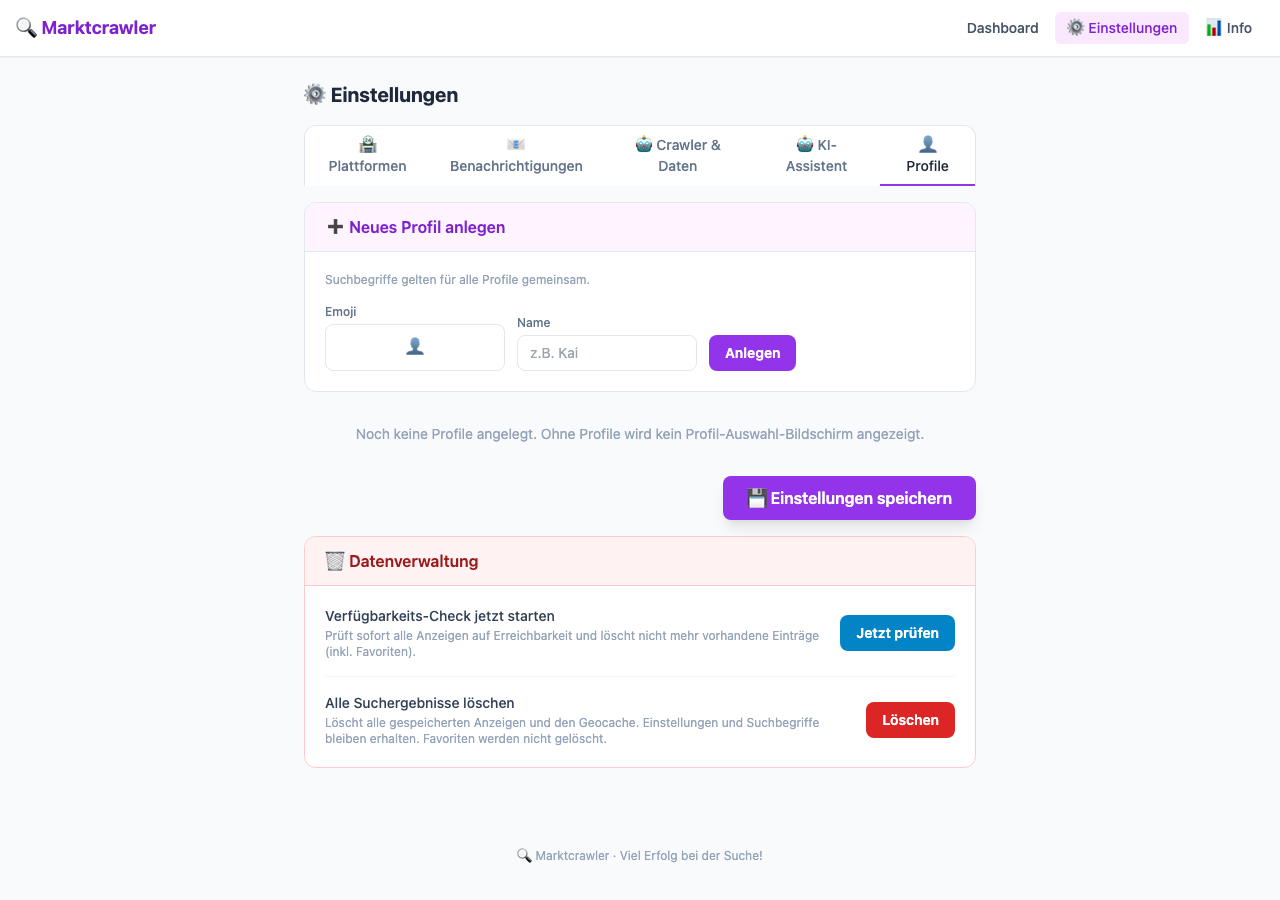
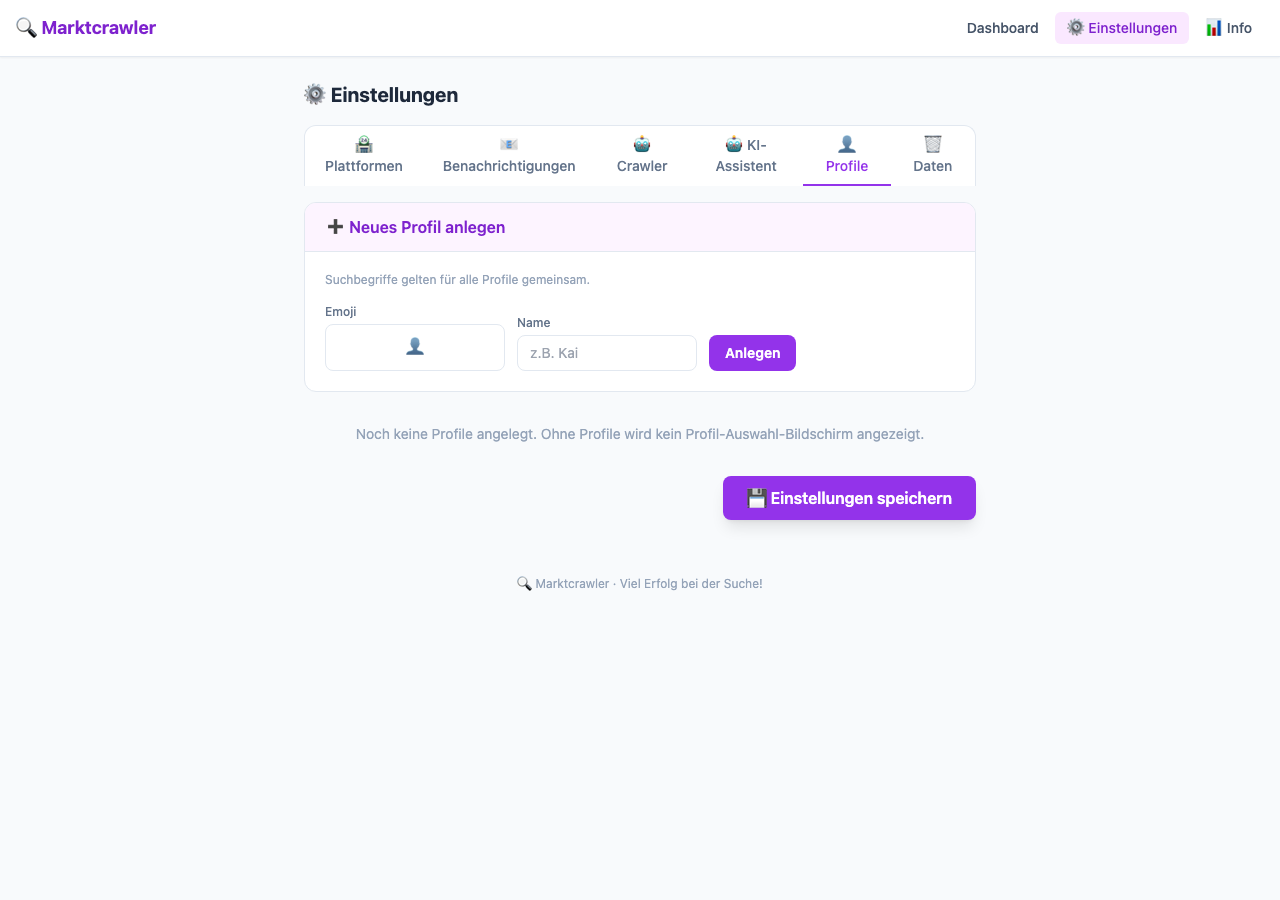
docs: README, features.md und Screenshots aktualisiert
- README: Test-Badge auf 640, Per-Profil-Benachrichtigungen beschrieben,
  Gmail-Setup ohne globalen Empfänger, Testbefehle aktualisiert
- features.md: Preisstatistik auf Info-Seite, Mehrbenutzer-Profile ohne
  globalen Fallback, Willhaben.at + markt.de in Settings-Tabelle, neue
  API-Endpunkte (/api/clear-geocache, /api/check-updates, /profiles/<id>/notify),
  Architektur: 618 Unit + 22 UI-Tests, willhaben.py + markt.py in Scrapers-Liste
- Screenshots: alle bestehenden Screenshots neu aufgenommen; neuer Screenshot
  settings-data.png für Daten-Tab mit Log-Terminal

diff --git a/docs/features.md b/docs/features.md
@@ -79,7 +79,7 @@ Gleiche `listing_id` wird nie doppelt gespeichert. Plattformübergreifend: gleic
 Luftlinie vom eigenen Heimstandort zu jeder Anzeige, berechnet via Nominatim + Haversine. Heimstandort in **Einstellungen → Crawler & Daten** als Stadtname eingeben.
 
 ### Preisstatistik
-Aufklappbare Tabelle im Dashboard zeigt Durchschnitt, Min, Max und Gratis-Zähler pro Suchbegriff (`GET /api/stats`).
+Tabelle auf der Info-Seite (`/info`) zeigt Durchschnitt, Min, Max und Gratis-Zähler pro Suchbegriff (`GET /api/stats`).
 
 ### Relative Zeitangaben
 Timestamps werden als „vor 2h" / „vor 30 Min." angezeigt (Tooltip mit absolutem Datum).
@@ -88,12 +88,12 @@ Timestamps werden als „vor 2h" / „vor 30 Min." angezeigt (Tooltip mit absolu
 Mehrere Personen können die App gemeinsam nutzen, ohne sich gegenseitig die „Neu"-Badges wegzunehmen. Beim Öffnen der App wird ein Profil gewählt (Netflix-Stil). Jedes Profil merkt sich den eigenen `last_seen_at`-Zeitstempel — Anzeigen, die nach dem letzten Besuch gefunden wurden, tragen das **✨ Neu**-Badge. Suchbegriffe und Einstellungen sind global geteilt. Profile werden in **Einstellungen → Profile** verwaltet (anlegen, umbenennen, Emoji setzen, löschen). Der aktive Nutzer ist in der Navbar sichtbar; Wechseln per Klick.
 
 Jedes Profil kann zusätzlich eine **eigene E-Mail-Adresse** und einen **Benachrichtigungsmodus** haben (konfigurierbar direkt im Profile-Tab der Einstellungen):
-- **⚡ Sofort-Alert** — bei jedem notify_job-Lauf (alle 15 Min.) alle neuen Anzeigen
-- **📋 Nur Tages-Digest** — täglich zur konfigurierten Uhrzeit
+- **⚡ Sofort-Alert** — gebündelt, maximal alle `alert_interval_minutes` Minuten (Minimum 15, Spamschutz)
+- **📋 Nur Tages-Digest** — täglich zur profil-eigenen Digest-Uhrzeit
 - **Beides** — Alert + Digest
 - **Keine E-Mails** — stumm (nur Neu-Badge im Dashboard)
 
-Fallback: Wenn kein Profil eine E-Mail hat, gelten die globalen `email_recipient`- und `digest_enabled`-Settings — bestehende Single-User-Setups bleiben unverändert. Endpoint: `POST /profiles/<id>/notify` (JSON: `{"email": "...", "notify_mode": "immediate|digest_only|both|none", "digest_time": "HH:MM"}`).
+Es gibt kein globales Empfänger-Feld mehr. Wenn kein Profil eine E-Mail hat, werden keine Mails verschickt. Endpoint: `POST /profiles/<id>/notify` (JSON: `{"email": "...", "notify_mode": "immediate|digest_only|both|off", "digest_time": "HH:MM", "alert_interval_minutes": 15}`).
 
 ### Pagination
 30 Anzeigen pro Seite, „Mehr laden"-Button lädt weitere per AJAX.
@@ -173,15 +173,15 @@ Die Einstellungsseite ist in fünf Tabs gegliedert. Deaktivierte Plattformen wer
 | Shpock | Plattformen | Aktiviert, Max. Preis, Standort, Radius (0 = kein Filter), Crawl-Intervall, Test-Button |
 | Vinted | Plattformen | Aktiviert, Max. Preis, Standort, Radius (0 = kein Filter), Crawl-Intervall, Test-Button |
 | eBay | Plattformen | Aktiviert, Max. Preis, Standort (PLZ oder Stadt), Radius, Crawl-Intervall, Test-Button |
+| Willhaben.at | Plattformen | Aktiviert, Max. Preis, Standort, Radius, PayLivery-Only, Crawl-Intervall, Test-Button |
+| markt.de | Plattformen | Aktiviert, Max. Preis, Standort, Radius, Crawl-Intervall, Test-Button |
 | Facebook Marketplace | Plattformen | Aktiviert, Max. Preis, Standort, Crawl-Intervall |
-| E-Mail | Benachrichtigungen | SMTP-Server/-Port, Absender, Empfänger (kommagetrennt), App-Passwort, Alert-Betreff |
-| Tages-Digest | Benachrichtigungen | Aktiviert, Uhrzeit (`HH:MM`), Digest-Betreff |
-| Crawler | Crawler & Daten | Max. Ergebnisse pro Suche, Pause zwischen Anfragen (s), Blacklist, Sprachfilter |
-| Anzeigen-Verwaltung | Crawler & Daten | Altersfilter (Anzeige), Anzeigen löschen älter als X Stunden, Nicht-passende Anzeigen bereinigen |
-| Verfügbarkeits-Check | Crawler & Daten | Aktiviert, Intervall (Stunden), „Jetzt prüfen"-Button |
-| Heimstandort | Crawler & Daten | Stadtname für Entfernungsberechnung |
+| E-Mail | Benachrichtigungen | SMTP-Server/-Port, Absender, App-Passwort, Alert-Betreff, Digest-Betreff |
+| Tages-Digest | Benachrichtigungen | Aktiviert (global), Digest-Betreff |
+| Crawler | Crawler | Max. Ergebnisse pro Suche, Pause zwischen Anfragen (s), Blacklist, Sprachfilter, Heimstandort, Verfügbarkeits-Check |
+| Datenverwaltung | 🗑 Daten | Verfügbarkeits-Check starten, Bereinigen, Plattform löschen, Alle löschen, Alte Anzeigen löschen (Stunden), Geocache löschen, Aktivitäts-Log-Terminal |
 | KI-Assistent | KI-Assistent | Aktiviert, API-Key, Modell (Selector + Live-Fetch), Persönliche Hinweise, Base-URL |
-| Profile | Profile | Anlegen (Name + Emoji), umbenennen, löschen |
+| Profile | Profile | Anlegen (Name + Emoji), umbenennen, löschen; pro Profil: E-Mail-Adresse, Modus, Alert-Intervall, Digest-Uhrzeit |
 
 ---
 
@@ -208,15 +208,19 @@ Die Einstellungsseite ist in fünf Tabs gegliedert. Deaktivierte Plattformen wer
 | POST | `/api/test-scraper` | Scraper-Verbindung testen (`{"platform": "kleinanzeigen"}`) |
 | POST | `/api/listings/<id>/contact-text` | KI-Anfragetext generieren |
 | POST | `/api/availability-check` | Verfügbarkeits-Check manuell starten |
-| POST | `/api/cleanup-mismatched` | Nicht passende Anzeigen bereinigen + dismissenm (JSON: `{"deleted": N}`) |
+| POST | `/api/cleanup-mismatched` | Nicht passende Anzeigen bereinigen + dismissen (JSON: `{"deleted": N}`) |
 | POST | `/api/clear-listings-by-platform` | Anzeigen einer Plattform löschen + dismissen (`{"platform": "Willhaben"}`) |
 | POST | `/api/clear-listings-by-age` | Anzeigen löschen + dismissen älter als X Stunden (`{"hours": N}`) |
+| POST | `/api/clear-geocache` | Geocache leeren (`{"status": "ok", "deleted": N}`) |
+| GET | `/api/check-updates` | GitHub-Update-Check; liefert `{status, updates, count, repo_url}` |
+| GET | `/api/log` | Log-Puffer als JSON-Array (letzte 200 Zeilen) |
 | GET | `/profiles/select` | Profil-Auswahl (nur wenn Profile existieren) |
 | POST | `/profiles/select/<id>` | Profil aktivieren |
 | POST | `/profiles/logout` | Session leeren |
 | POST | `/profiles` | Neues Profil anlegen |
 | POST | `/profiles/<id>/update` | Profil umbenennen / Emoji ändern |
 | POST | `/profiles/<id>/delete` | Profil löschen |
+| POST | `/profiles/<id>/notify` | Benachrichtigungseinstellungen setzen (JSON: `email`, `notify_mode`, `digest_time`, `alert_interval_minutes`) |
 
 ---
 
@@ -230,7 +234,7 @@ marktcrawler/
 ├── data/                   # Persistentes Volume (SQLite-DB, FB-Session)
 ├── docs/
 │   └── screenshots/        # UI-Vorschaubilder
-├── tests/                  # 462 Unit-Tests (alle ohne externe Abhängigkeiten)
+├── tests/                  # 618 Unit-Tests + 22 Playwright UI-Tests
 │   ├── conftest.py
 │   ├── test_crawler.py
 │   ├── test_crawl_run.py
@@ -240,7 +244,8 @@ marktcrawler/
 │   ├── test_routes.py
 │   ├── test_scrapers.py
 │   ├── test_checker.py
-│   └── test_ai.py
+│   ├── test_ai.py
+│   └── test_ui.py          # Playwright End-to-End
 └── app/
     ├── __init__.py         # Flask App Factory, DB + Scheduler initialisieren; SECRET_KEY-Persistenz
     ├── database/           # SQLite-Schicht (kein ORM), versioniertes Migrations-Framework
@@ -267,6 +272,8 @@ marktcrawler/
     │   ├── shpock.py         # GraphQL-API
     │   ├── vinted.py         # REST-API mit Session-Cookie; Altersfilter via created_at_ts
     │   ├── ebay.py           # requests + BeautifulSoup; URL-Encoding mit quote_plus
+    │   ├── willhaben.py      # __NEXT_DATA__ JSON-Parsing; PayLivery-Filter; Haversine-Radius
+    │   ├── markt.py          # requests + BeautifulSoup; Umlaut-Slug für Stadt-URL
     │   └── facebook.py       # Playwright headless
     └── templates/
         ├── base.html              # Navbar, Flash-Messages, Tailwind

diff --git a/README.md b/README.md
@@ -7,7 +7,7 @@ Selbst gehostet und Docker-ready — läuft im Hintergrund auf einem Server, NAS
 ![Python](https://img.shields.io/badge/Python-3.12-blue?logo=python&logoColor=white)
 ![Flask](https://img.shields.io/badge/Flask-3.0-lightgrey?logo=flask)
 ![Docker](https://img.shields.io/badge/Docker-ready-2496ED?logo=docker&logoColor=white)
-![Tests](https://img.shields.io/badge/Tests-579%20passed-brightgreen?logo=pytest)
+![Tests](https://img.shields.io/badge/Tests-640%20passed-brightgreen?logo=pytest)
 ![License](https://img.shields.io/badge/License-CC%20BY--NC%204.0-lightgrey)
 
 ---
@@ -27,8 +27,8 @@ Selbst gehostet und Docker-ready — läuft im Hintergrund auf einem Server, NAS
 
 ### Benachrichtigungen
 - **E-Mail-Alert (gebündelt)** — alle neuen Anzeigen alle 15 Min. kompakt per E-Mail, strukturiert nach Plattform und Suchbegriff
-- **Tages-Digest** — tägliche Zusammenfassung zur konfigurierten Uhrzeit
-- **Per-Profil-Benachrichtigungen** — jedes Profil hat eigene E-Mail-Adresse und Modus (Sofort-Alert / nur Digest / beides / stumm)
+- **Tages-Digest** — tägliche Zusammenfassung zur konfigurierten Uhrzeit pro Profil
+- **Per-Profil-Benachrichtigungen** — jedes Profil hat eigene E-Mail, Modus (Sofort / Digest / beides / stumm) und Alert-Intervall (min. 15 Min.); kein globales Empfänger-Feld
 
 ### Anzeigen & KI
 - **✨ KI-Anfragetext** — generiert per Klick einen Kontakttext an den Verkäufer; bei VB-Anzeigen mit automatischem Preisvorschlag
@@ -105,7 +105,7 @@ Dann in **Einstellungen → KI-Assistent**: Modell `gemma2:2b`, Base-URL `http:/
    - SMTP-Server: `smtp.gmail.com` · Port: `587`
    - Absender: `deine-adresse@gmail.com`
    - App-Passwort: *(das erzeugte App-Passwort)*
-   - Empfänger: `du@example.com, partner@example.com` (kommagetrennt)
+3. E-Mail-Empfänger werden **pro Profil** vergeben: **Einstellungen → Profile** → E-Mail-Adresse und Benachrichtigungsmodus pro Person einstellen
 
 ### Weitere Anbieter
 
@@ -169,8 +169,9 @@ docker exec -it marktcrawler python -c \
 ## 🔧 Entwicklung & Tests
 
 ```bash
-python -m pytest tests/ -v         # alle 568 Tests
-python -m pytest tests/test_database.py -v  # einzelne Datei
+python -m pytest tests/ -v                       # alle 640 Tests (inkl. Playwright UI-Tests)
+python -m pytest tests/ --ignore=tests/test_ui.py  # nur Unit/Integration-Tests
+python -m pytest tests/test_database.py -v          # einzelne Datei
 ```
 
 Alle Tests laufen ohne externe Abhängigkeiten (HTTP und DB werden gemockt).
